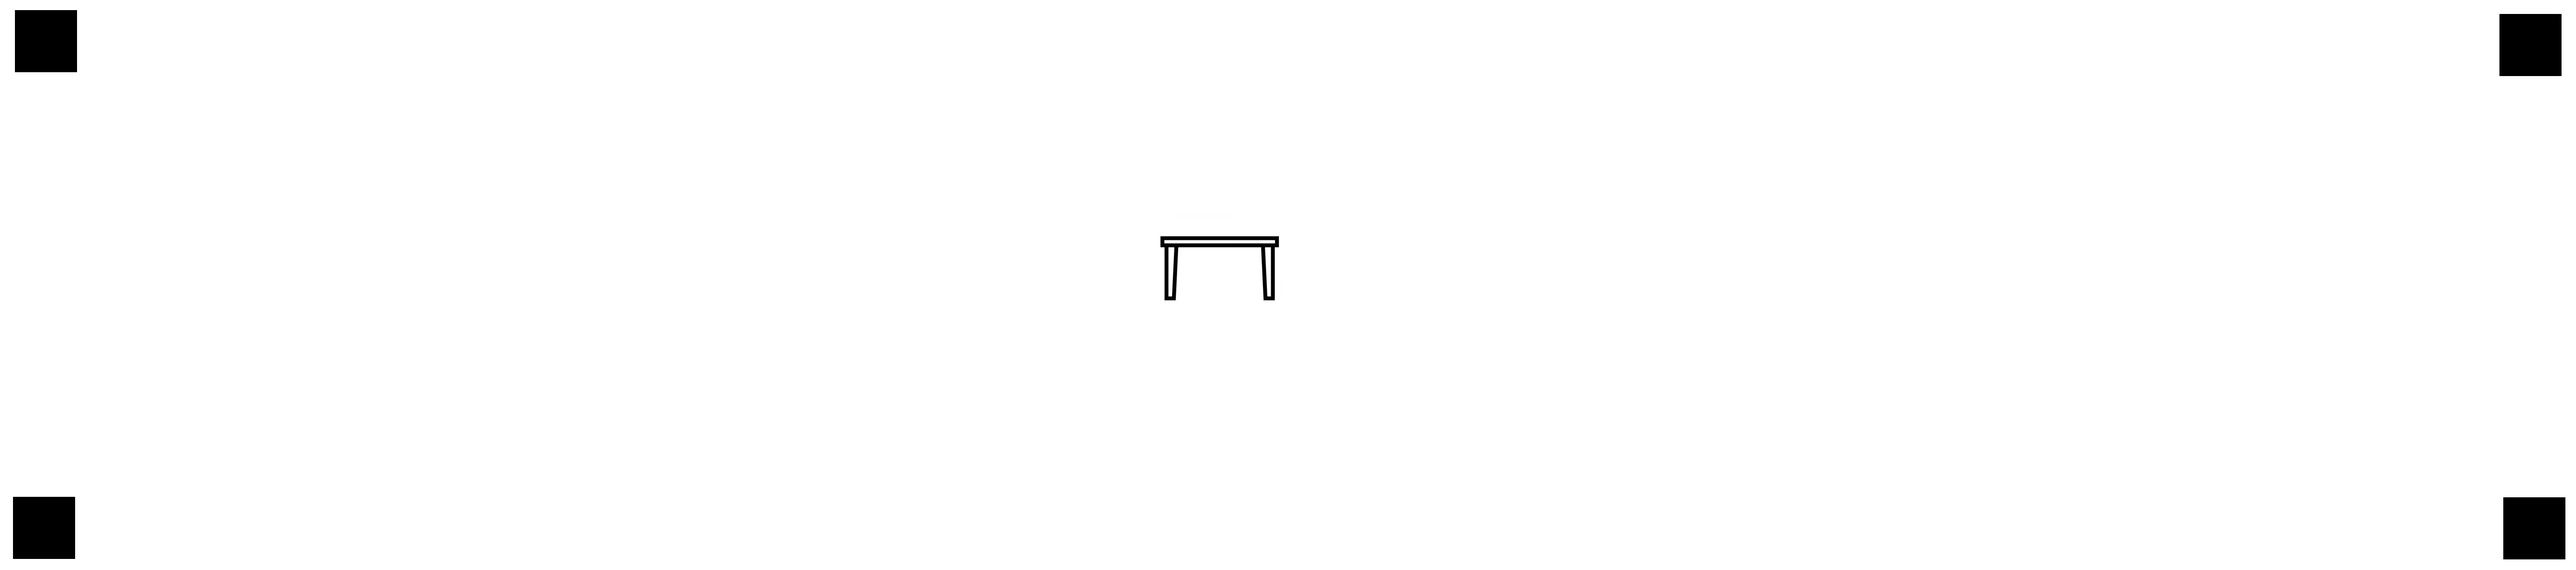
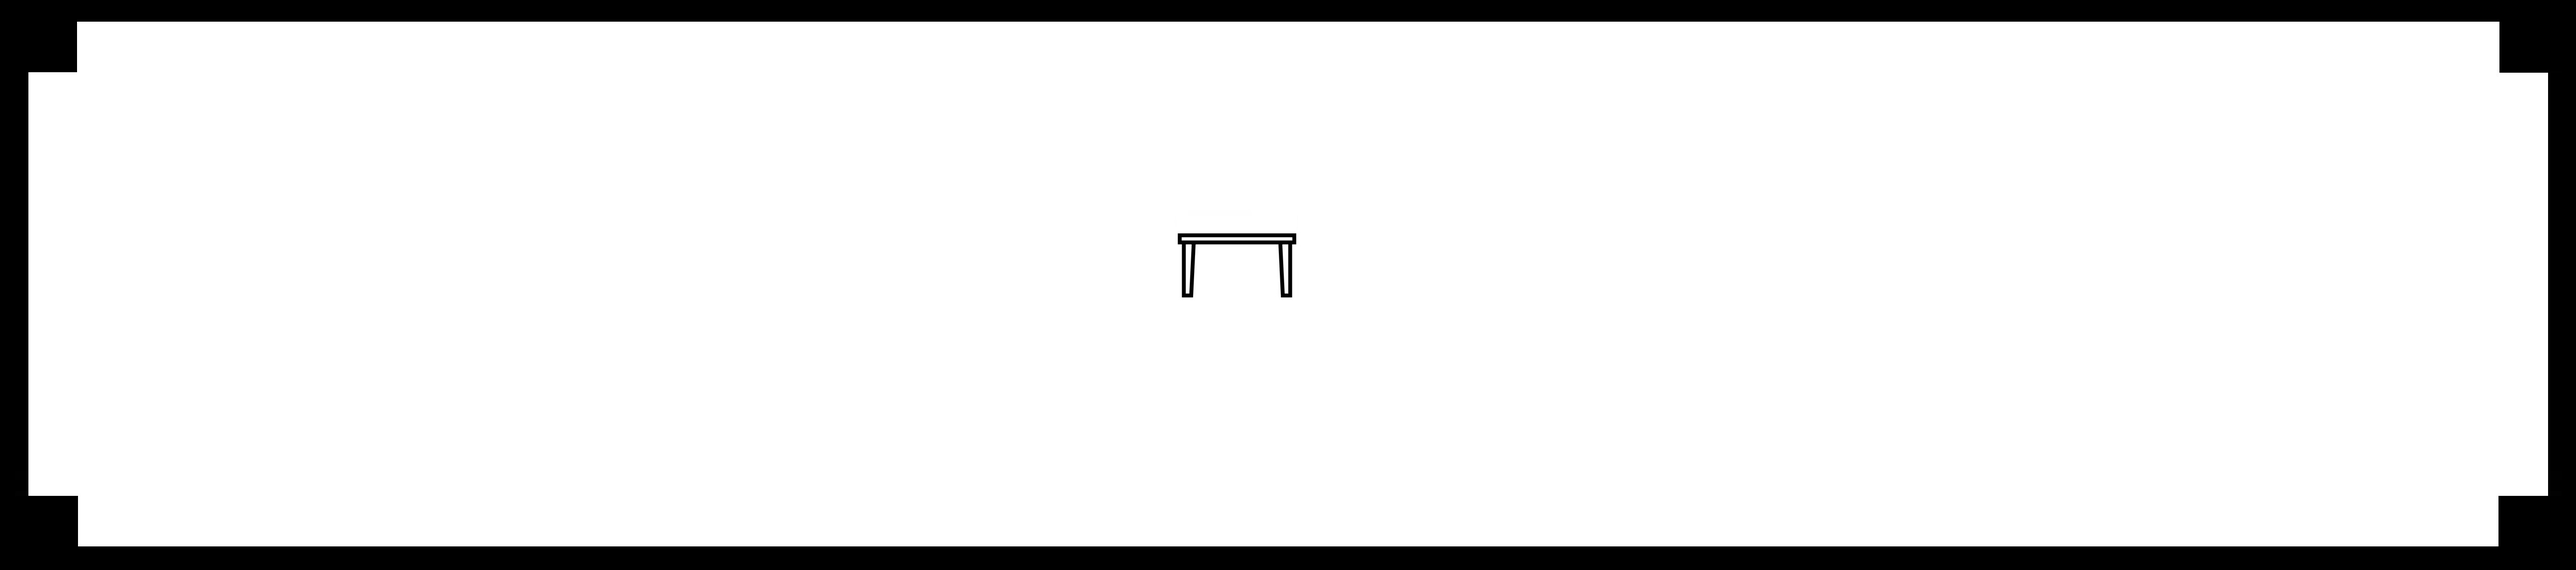
fix banniere

Changed region(s): [[0.0, 0.0, 1.0, 1.0], [0.437, 0.4062, 0.4994, 0.5312]]

diff --git a/code/airneis/src/composants/front/Categorie.jsx b/code/airneis/src/composants/front/Categorie.jsx
@@ -23,6 +23,10 @@ function Categorie() {
   
     return (
       <>
+        <img src={`http://airneis.ddns.net:3001/${categorie}/banniere.jpg`} alt={categorie} style={{ width: '100%' }}/>
+        <div className="ContactTitre">
+          <span>{categorie}</span>
+        </div>
         <div className="container mt-4">
           <div className="row justify-content-center">
             {products.map((product) => (

diff --git a/code/airneis/src/composants/front/Produit.jsx b/code/airneis/src/composants/front/Produit.jsx
@@ -20,7 +20,7 @@ function Produit() {
 
   return (
     <>
-    <img src={`http://airneis.ddns.net:3001/cat/${product.categorie}.jpg`} alt={product.categorie} />
+    <img src={`http://airneis.ddns.net:3001/${product.categorie}/banniere.jpg`} alt={product.categorie} style={{ width: '100%' }}/>
       <center>
         <h1>{product.nom}</h1>
         <p>{product.description}</p>
